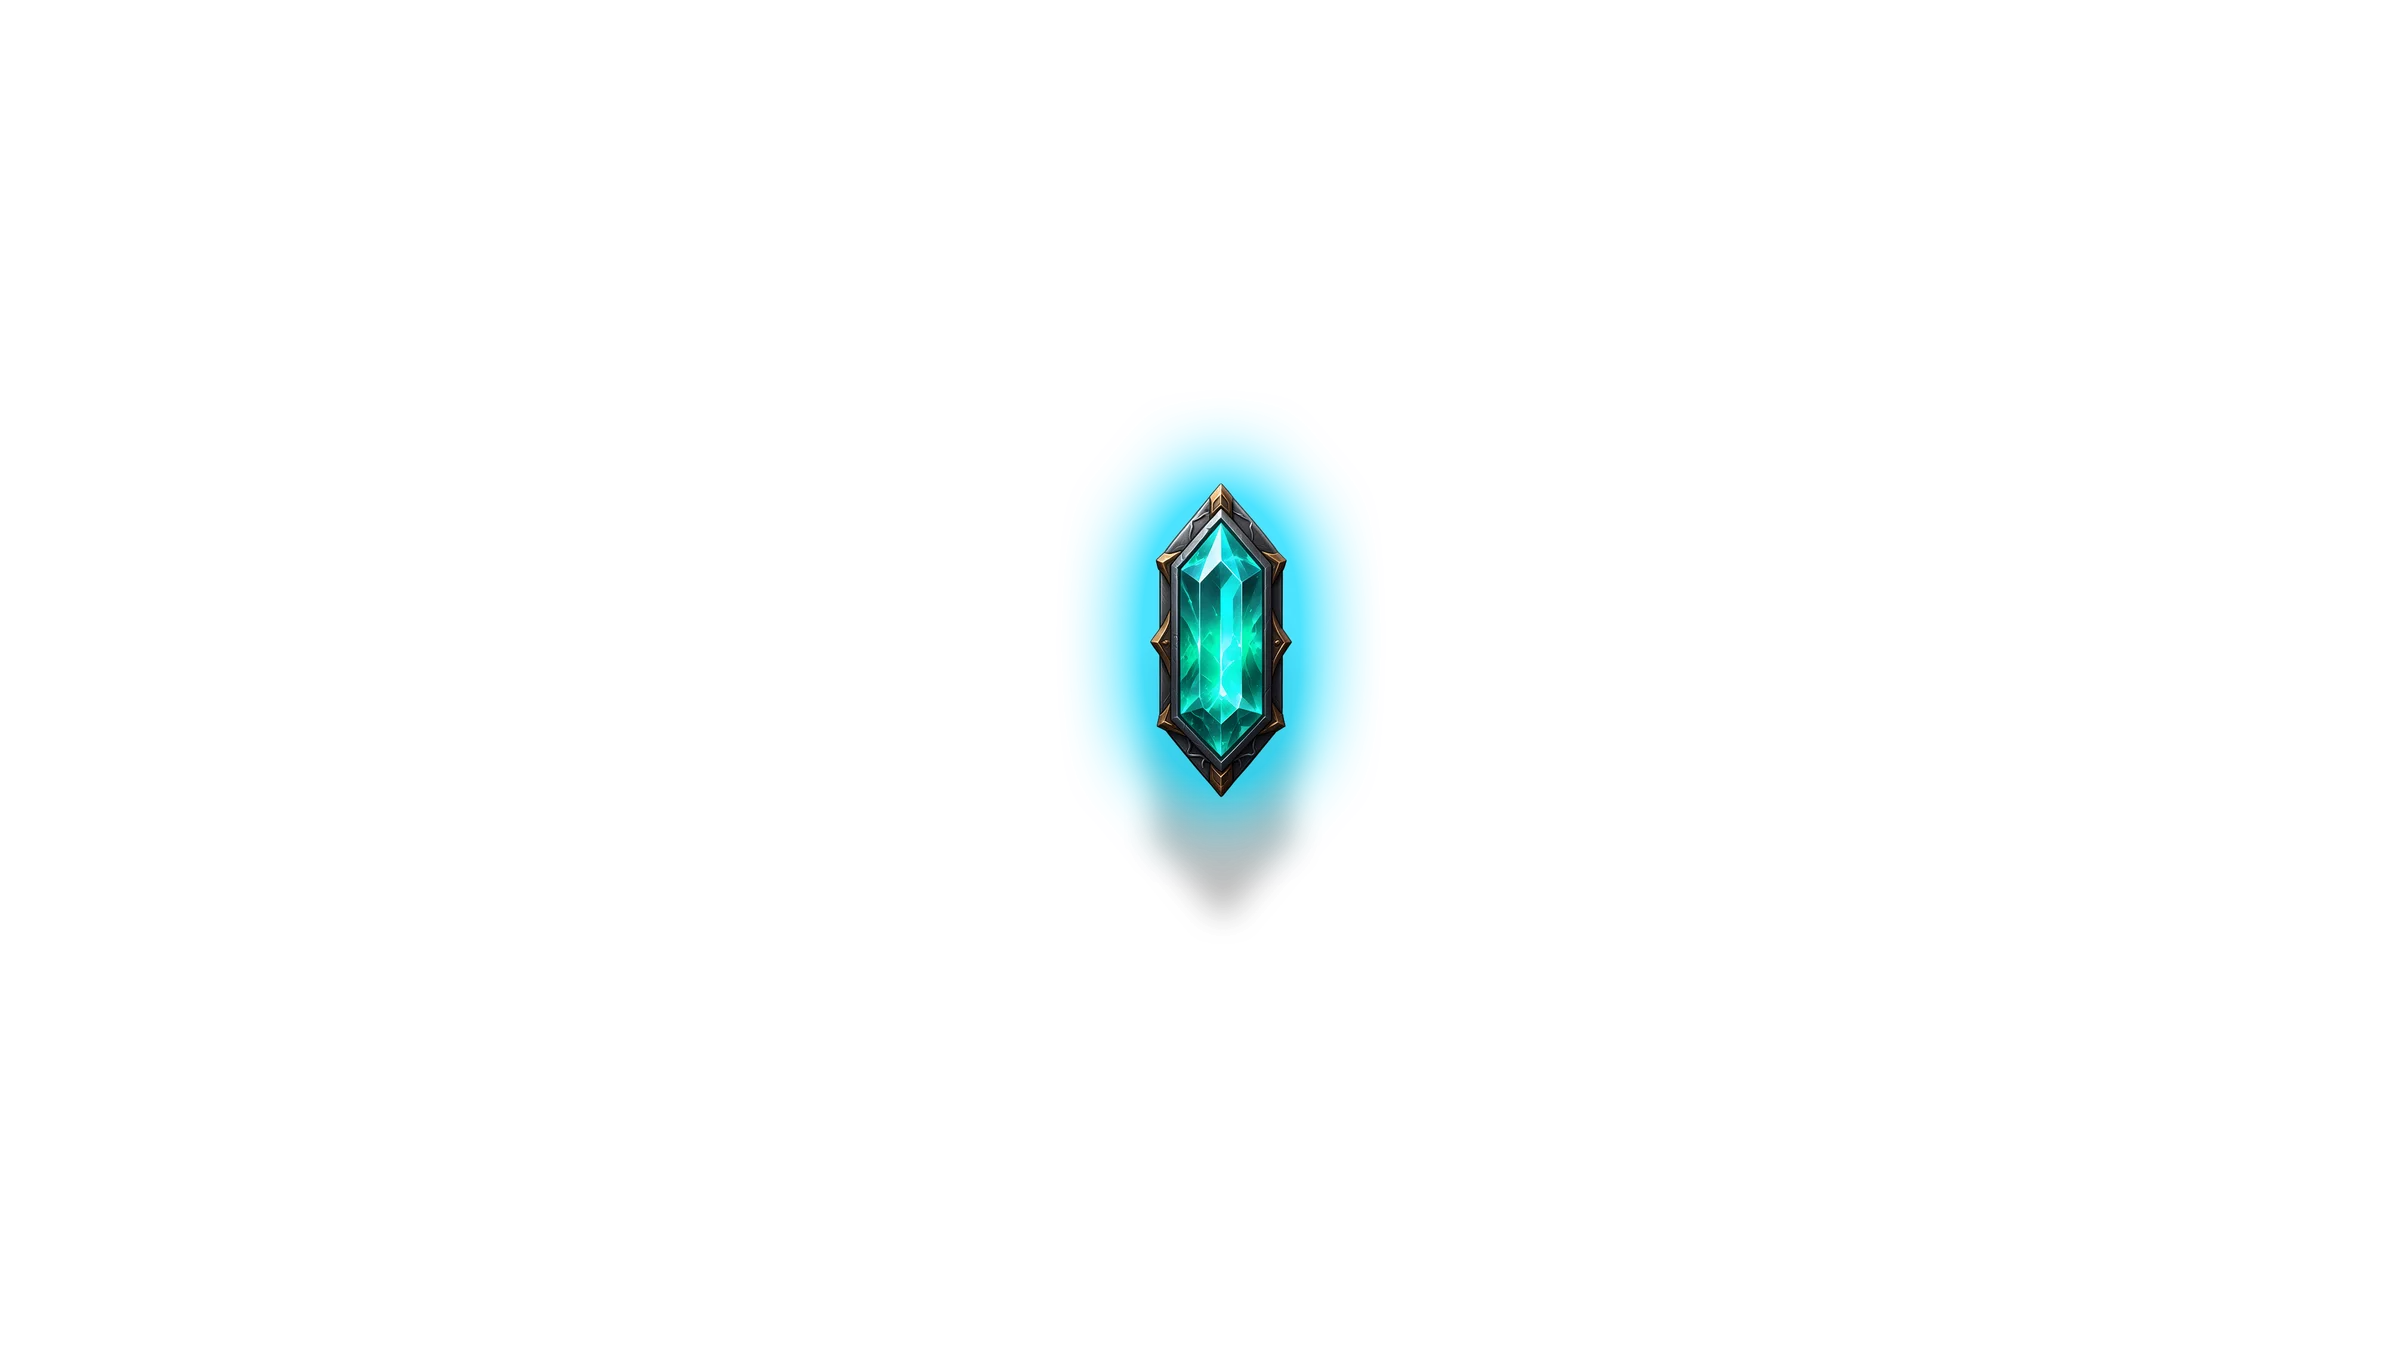
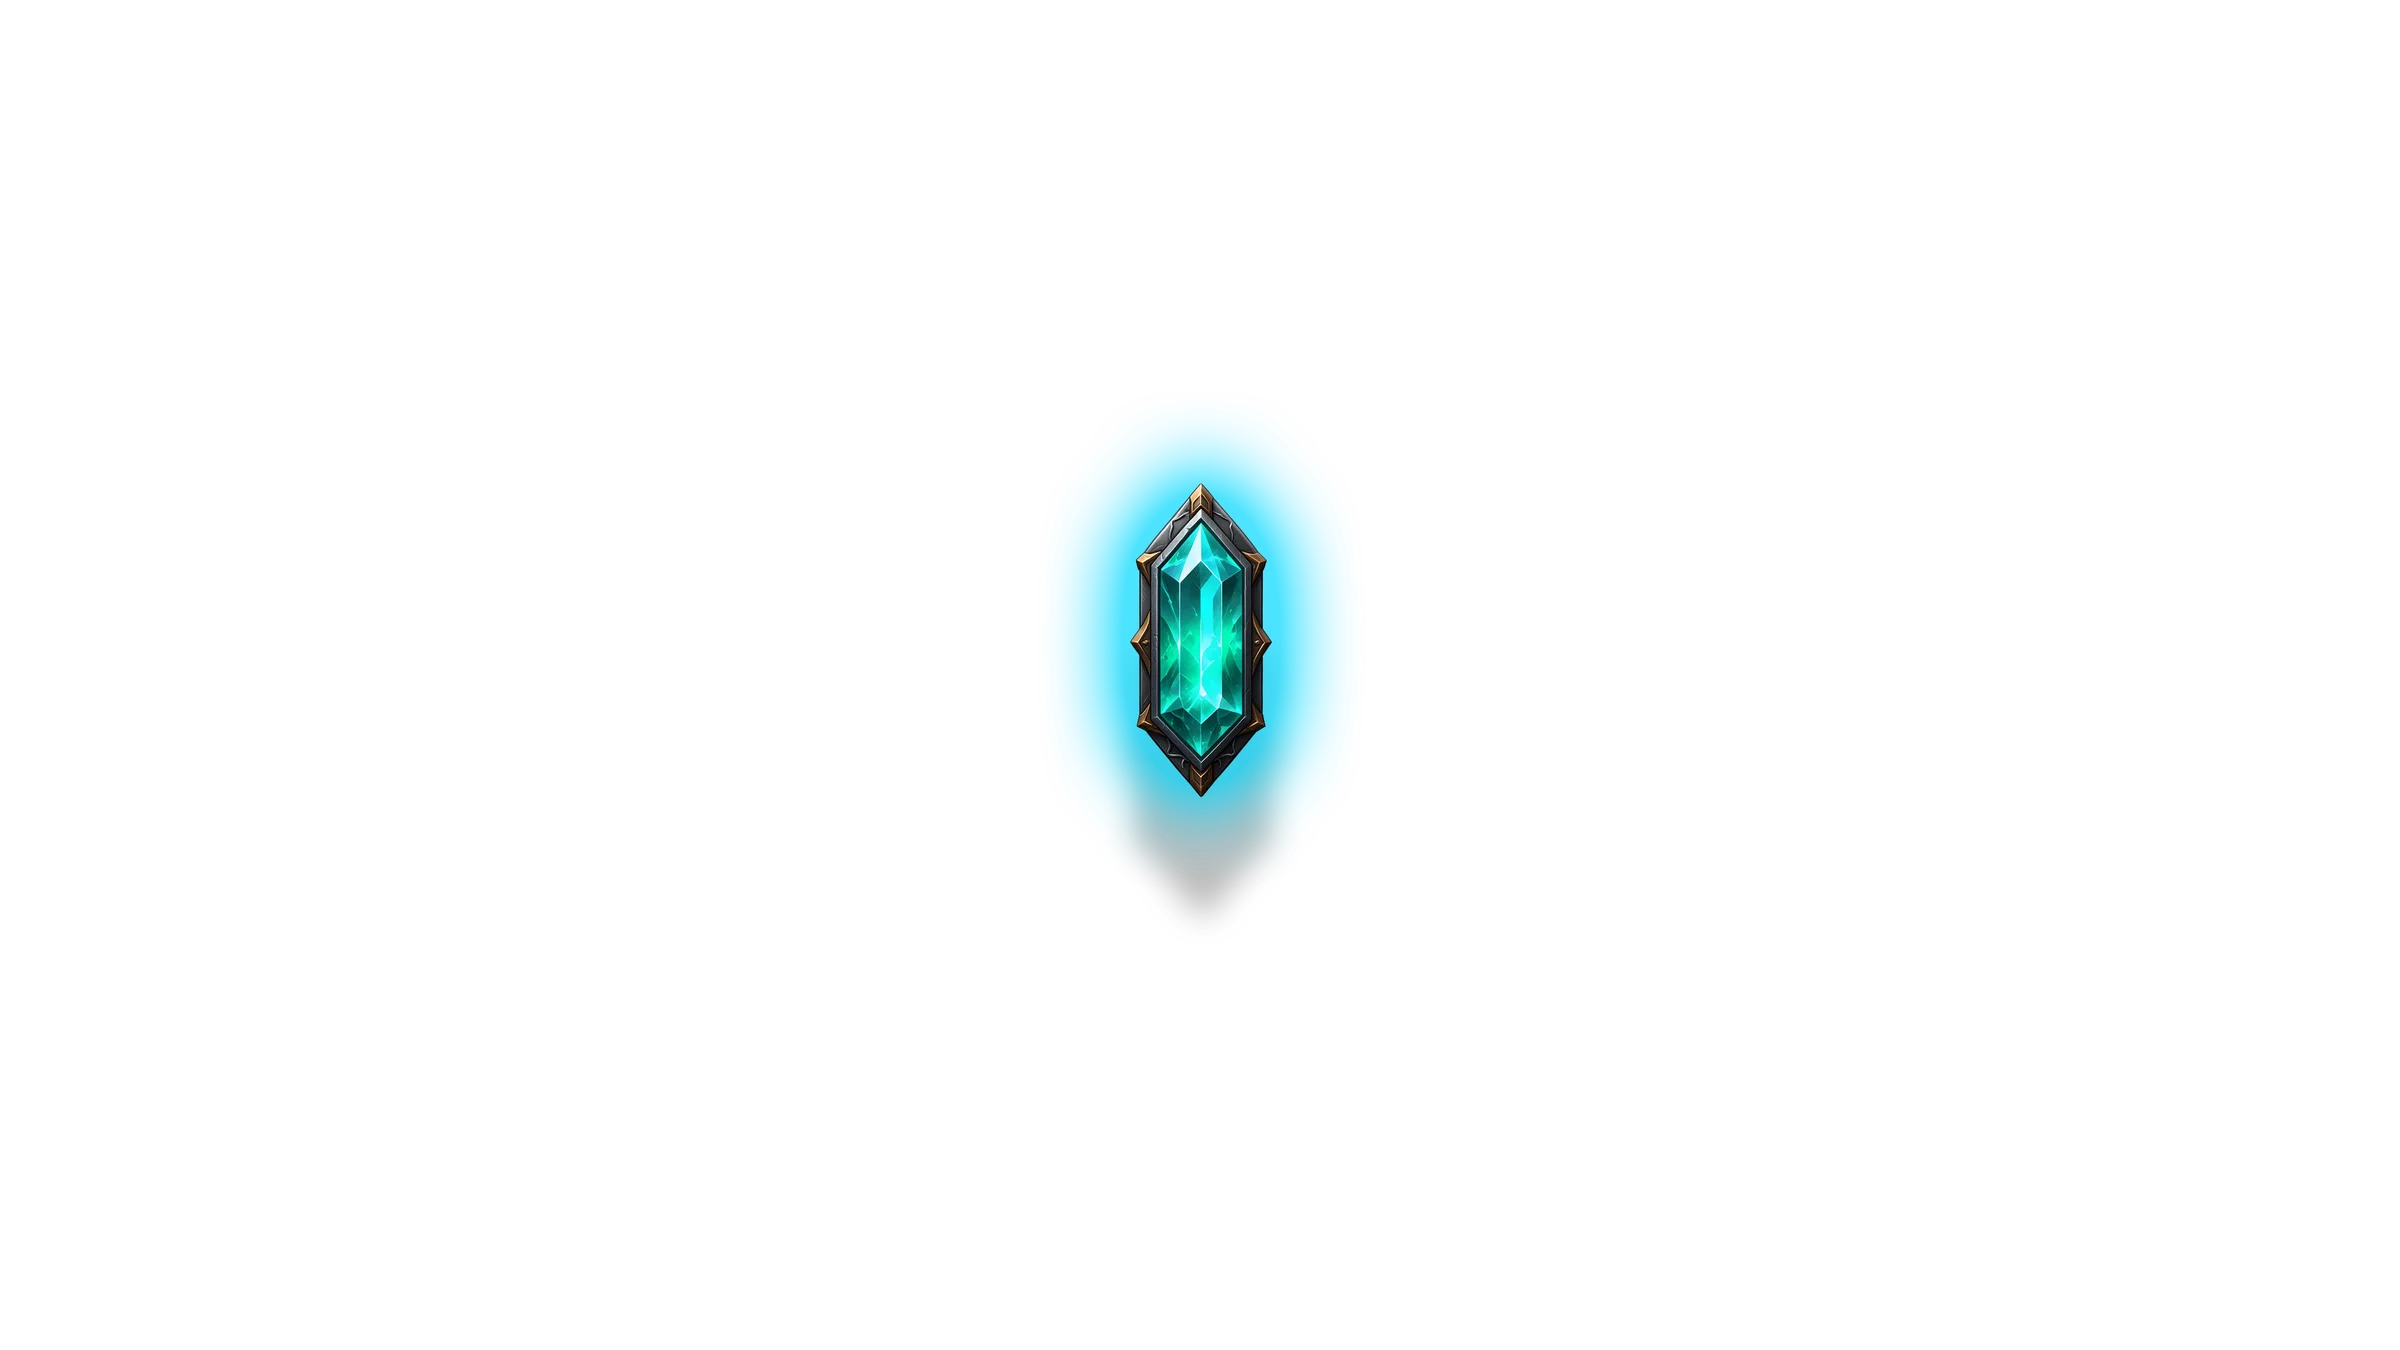
fix(hero): centre the crystal over the anvil
The gem was placed from an estimate of its canvas padding and landed
17px (at 1920w) right of the anvil's centre line. Measure-based
placement now puts its opaque centre exactly at 50%, and the glow,
loader halo and merch crop follow.

Changed region(s): [[0.4375, 0.3422, 0.5625, 0.6533]]

diff --git a/src/components/ForgeSequence.tsx b/src/components/ForgeSequence.tsx
@@ -150,7 +150,7 @@ function Hero({ p, orientation }: { p: MotionValue<number>; orientation: "vertic
       <motion.div className="absolute inset-0" style={{ y: crystalY, opacity: crystalOpacity }}>
         <motion.div
           aria-hidden
-          className="absolute left-[50.8%] top-[47.3%] size-[34vmin] -translate-x-1/2 -translate-y-1/2 rounded-full"
+          className="absolute left-1/2 top-[47.3%] size-[34vmin] -translate-x-1/2 -translate-y-1/2 rounded-full"
           style={{
             opacity: crystalGlow,
             background: "radial-gradient(circle, rgba(127,247,234,0.55) 0%, rgba(63,230,212,0.18) 40%, transparent 70%)",
@@ -160,7 +160,7 @@ function Hero({ p, orientation }: { p: MotionValue<number>; orientation: "vertic
           src="/hero/crystal.webp"
           alt=""
           className={layer}
-          style={{ scale: crystalScale, transformOrigin: "50.8% 47.3%" }}
+          style={{ scale: crystalScale, transformOrigin: "50% 47.3%" }}
         />
       </motion.div>
 

diff --git a/src/config/site.ts b/src/config/site.ts
@@ -57,6 +57,6 @@ export const MERCH: MerchItem[] = [
   { name: "Polyphius Foil Print", kind: "Holo art print · A3", image: "/cards/polyphius-800.webp", fit: "card", tint: "#3fe6d4" },
   { name: "Quasar Foil Print", kind: "Holo art print · A3", image: "/cards/quasar-800.webp", fit: "card", tint: "#8b5cf6" },
   { name: "Sacred Anvil Tee", kind: "Heavyweight cotton", image: "/hero/anvil.webp", fit: "art", tint: "#ff7a2f", focus: { x: 50, y: 72, zoom: 1.6 } },
-  { name: "Mint Crystal Pendant", kind: "Resin & brass", image: "/hero/crystal.webp", fit: "art", tint: "#3fe6d4", focus: { x: 50.8, y: 47.3, zoom: 4.5 } },
+  { name: "Mint Crystal Pendant", kind: "Resin & brass", image: "/hero/crystal.webp", fit: "art", tint: "#3fe6d4", focus: { x: 50, y: 47.3, zoom: 4.5 } },
   { name: "Key Art Desk Mat", kind: "900 × 400 mm", image: "/hero/keyart.webp", fit: "art", tint: "#e9b44c", focus: { x: 50, y: 50, zoom: 1 } },
 ];

diff --git a/src/components/Loader.tsx b/src/components/Loader.tsx
@@ -178,7 +178,7 @@ export function Loader({ onDone, onDownload, hold = false }: { onDone: () => voi
 
             {/* Crystal awakens as the colour lands */}
             <motion.circle
-              cx="976"
+              cx="960"
               cy="511"
               r="190"
               fill="url(#crystal-glow)"
